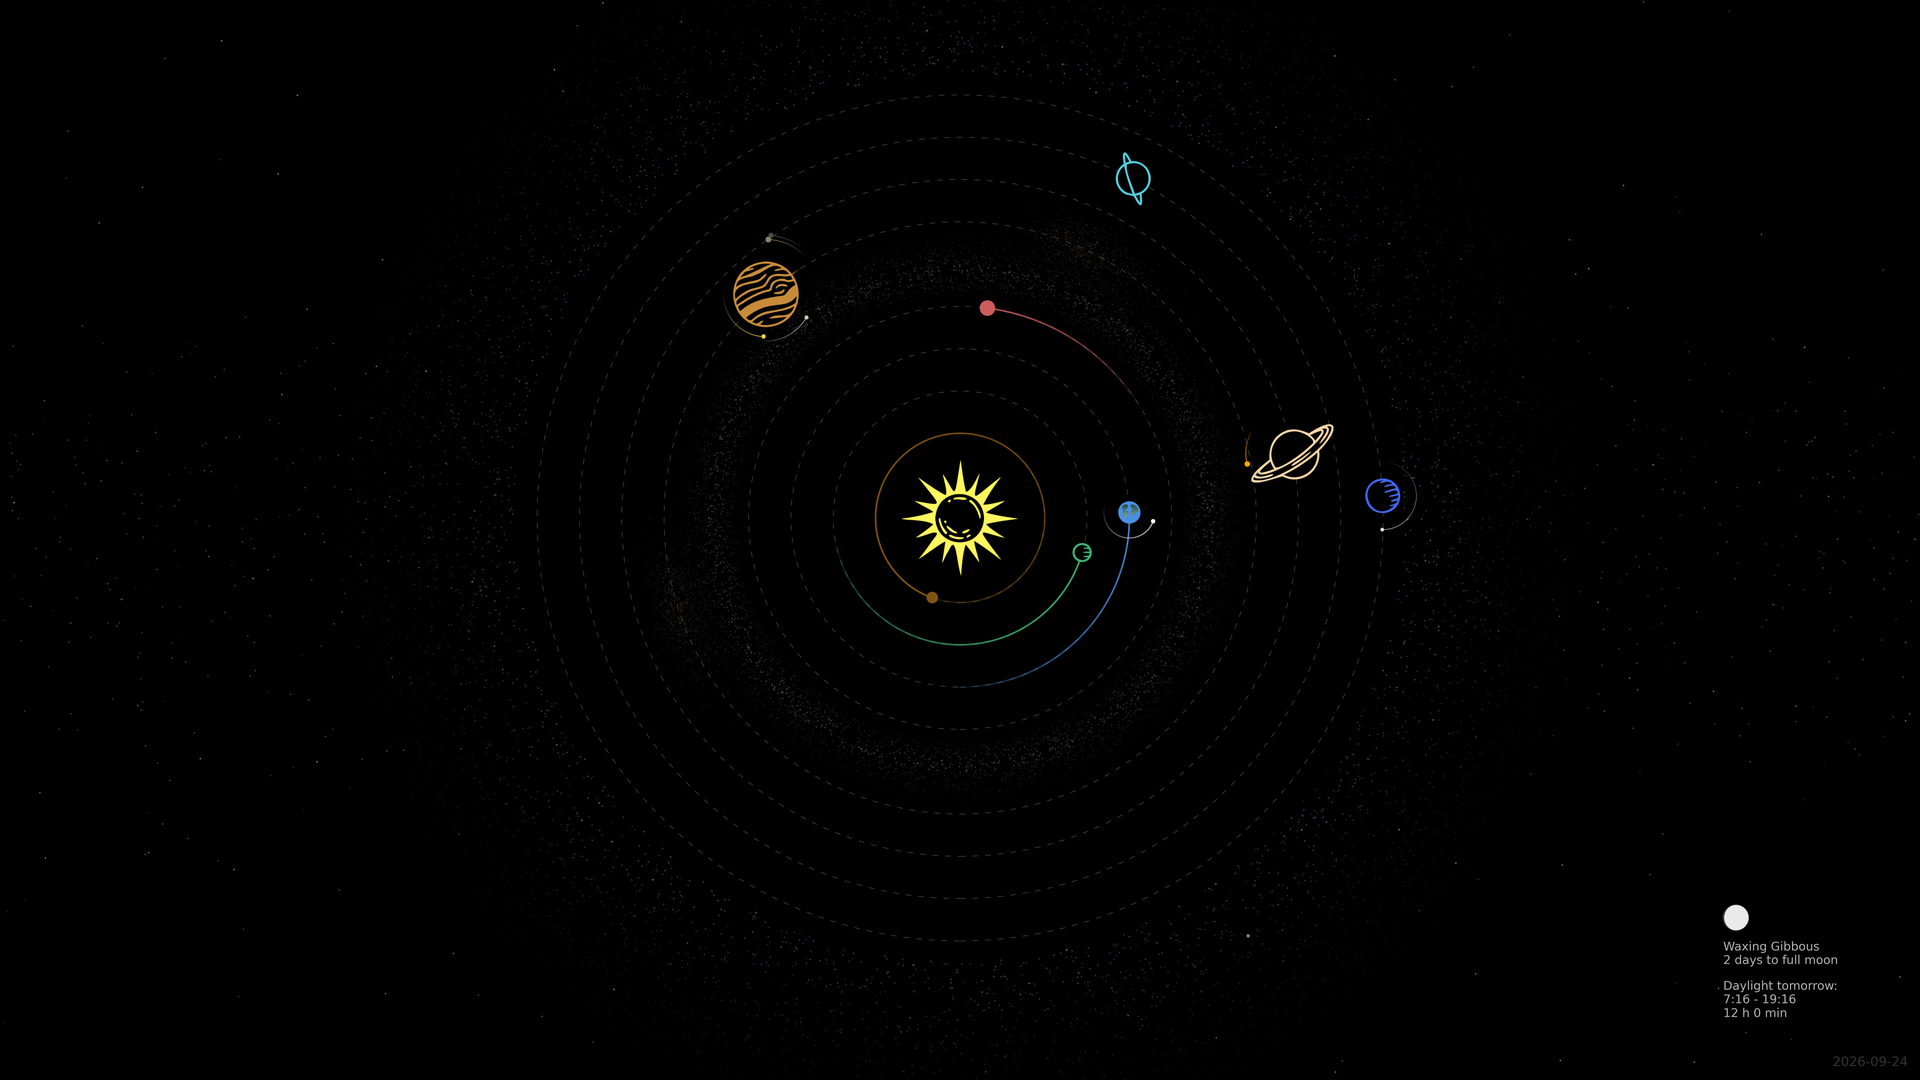
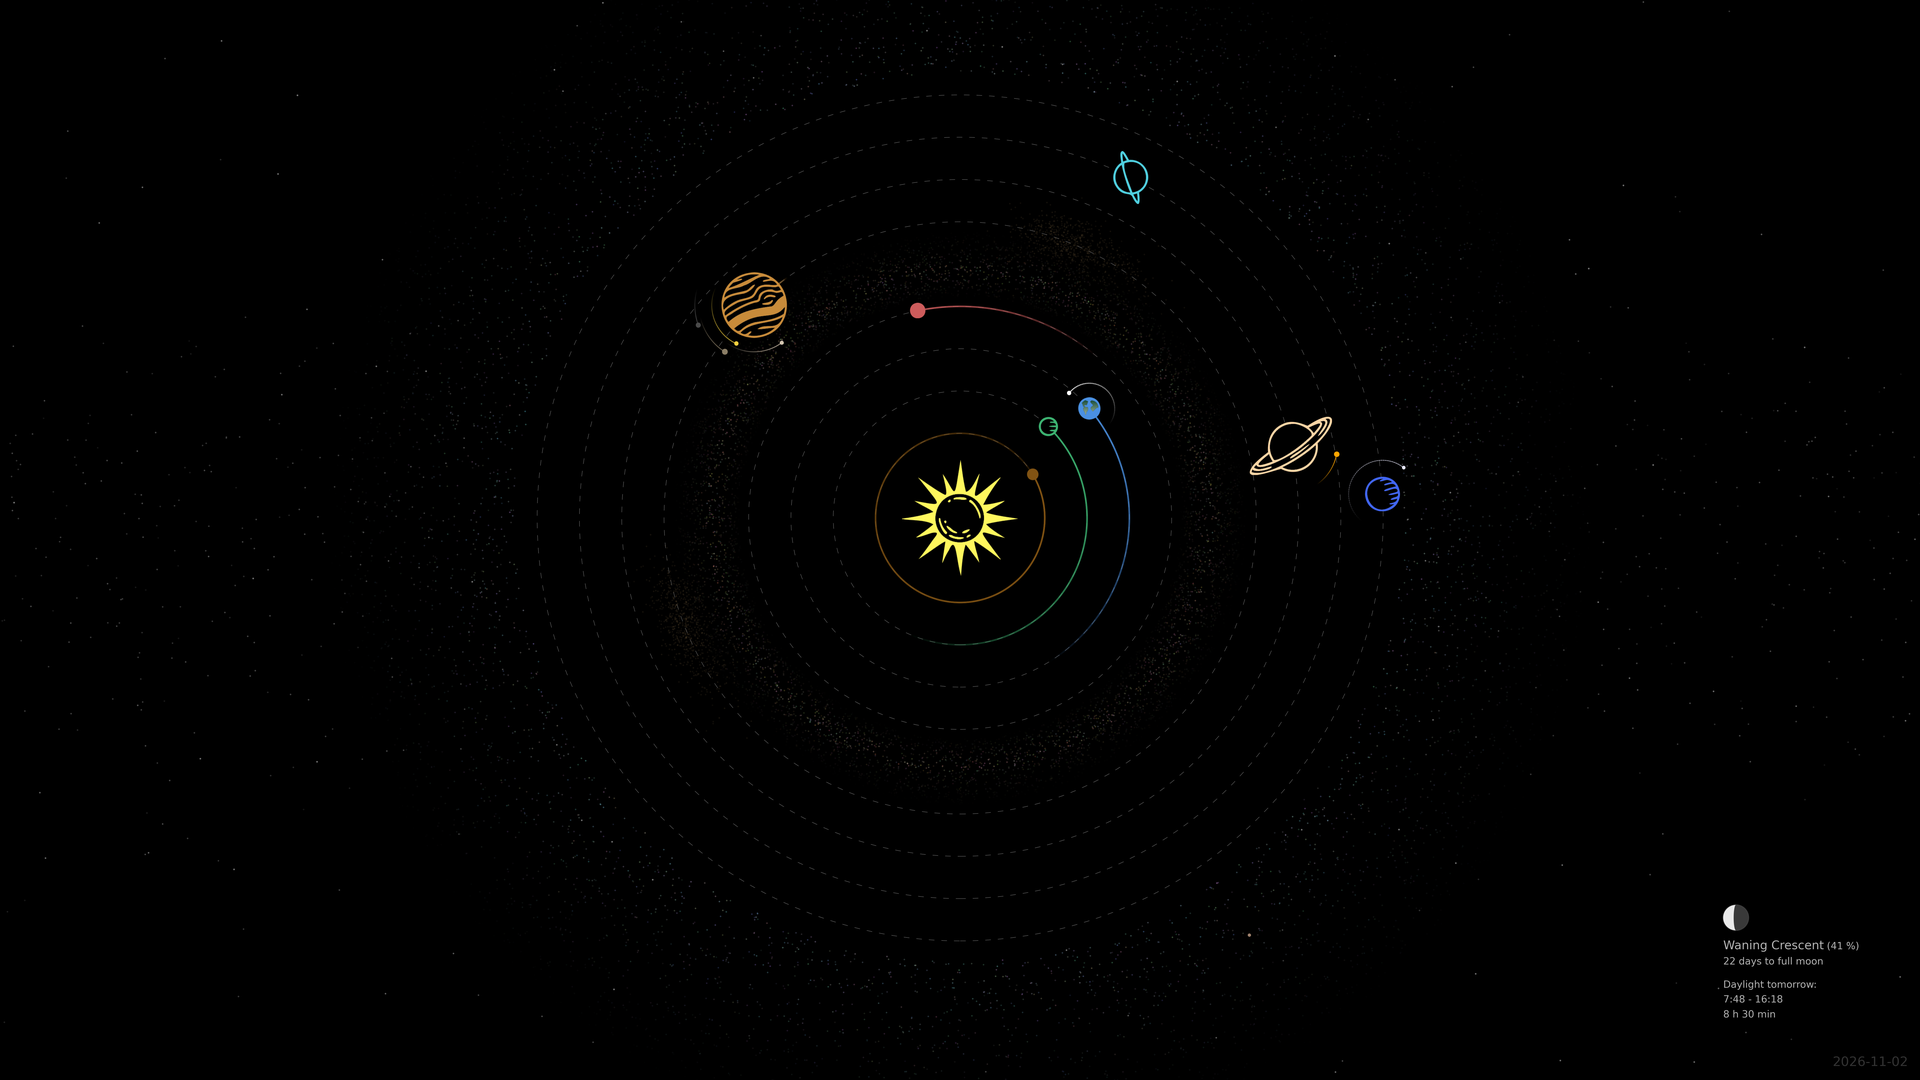
Add resolution and geolocation options for wallpaper generation

diff --git a/solarmap.py b/solarmap.py
@@ -1,5 +1,5 @@
 from astronomy import Time, Body, EclipticLongitude, GeoVector, Observer, SearchRiseSet, Direction, Illumination, SearchMoonPhase, JupiterMoons
-from matplotlib.offsetbox import OffsetImage, AnnotationBbox
+from matplotlib.offsetbox import OffsetImage, AnnotationBbox, HPacker, TextArea
 from matplotlib.colors import hex2color
 from functools import lru_cache
 from zoneinfo import ZoneInfo
@@ -13,12 +13,52 @@ import numpy as np
 import datetime
 import argparse
 
+def parse_resolution(value):
+    try:
+        width, height = map(int, value.lower().split("x"))
+    except ValueError:
+        raise argparse.ArgumentTypeError(
+            "resolution must be in WIDTHxHEIGHT format, e.g. 1920x1080"
+        )
+    if width <= 0 or height <= 0:
+        raise argparse.ArgumentTypeError("width and height must be positive integers")
+    return width, height
+
+def parse_geolocation(value):
+    try:
+        latitude, longitude = map(float, value.split(","))
+    except ValueError:
+        raise argparse.ArgumentTypeError(
+            "geolocation must be in LATITUDE,LONGITUDE format, e.g. 60.17101,24.94148"
+        )
+    if not math.isfinite(latitude) or not math.isfinite(longitude):
+        raise argparse.ArgumentTypeError("latitude and longitude must be finite numbers")
+    if not -90 <= latitude <= 90 or not -180 <= longitude <= 180:
+        raise argparse.ArgumentTypeError(
+            "latitude must be between -90 and 90, and longitude between -180 and 180"
+        )
+    return latitude, longitude
+
 parser = argparse.ArgumentParser()
 parser.add_argument(
     "--language",
     choices=["en", "fi"],
     default="en",
     help="Language for the generated map"
+)
+parser.add_argument(
+    "--resolution",
+    type=parse_resolution,
+    default=(1920, 1080),
+    metavar="WIDTHxHEIGHT",
+    help="Wallpaper resolution in pixels (default: 1920x1080)"
+)
+parser.add_argument(
+    "--geolocation",
+    type=parse_geolocation,
+    default=(60.17101, 24.94148),
+    metavar="LATITUDE,LONGITUDE",
+    help="Location coordinates (default: 60.17101,24.94148)"
 )
 args = parser.parse_args()
 
@@ -29,9 +69,7 @@ args = parser.parse_args()
 # ═══════════════════════════════════════════════════════════════════════════
 
 #TODO: Test different resolutions and aspect ratios
-#TODO: Move supersample multiplier to configuration
 #TODO: Move magic numbers to configuration
-#TODO: Automatic wallpaper generation in Github Actions?
 #TODO: Comets (Halley, Hale-Bopp)
 #TODO: Realistic elliptical orbits (enables rest of the dwarf planets & astrology)
 ##      Astrology: Sky division to constellations, meanings of planets in different constellations
@@ -48,14 +86,16 @@ args = parser.parse_args()
 show_info_text = True  # Set to False to hide info text
 
 # Geolocation coordinates for weather forecast, moon phase and rise/set times
-latitude = 60.06977
-longitude = 23.66283
+latitude, longitude = args.geolocation
 
 # Custom time input
 custom_date = "Now"  # Options: None, "Now", "YYYY-MM-DD", or "YYYY-MM-DD HH:MM"
 
 # Orbital trails toggle
 trail_days = 100  # How long the trails are in days
+
+# Supersampling multiplier for final image antialiasing
+supersample_multiplier = 4
 
 # Planet colors
 planet_colors = {
@@ -208,8 +248,7 @@ def longitude_to_theta(longitude):
 # ═══════════════════════════════════════════════════════════════════════════
 
 # Set wallpaper resolution
-width_px = 1920
-height_px = 1080
+width_px, height_px = args.resolution
 
 reference_height = 1440
 reference_dpi = 100 # Reference DPI for scaling, change for bigger/smaller planets and stars
@@ -858,7 +897,8 @@ if show_info_text:
 info_boxes = []
 
 # 1. Moon phase
-moon_text = f"\n\n\n{phase_name}\n{days_to_full:.0f} {T['days_to_full']}"
+moon_phase_text = f"{phase_name} ({illumination * 100:.0f} %)"
+moon_text = f"\n\n\n{moon_phase_text}\n{days_to_full:.0f} {T['days_to_full']}"
 info_boxes.append(moon_text)
 
 # 2. Daylight
@@ -891,10 +931,40 @@ for i, box_text in enumerate(reversed(info_boxes)):
     text_x_pos = box_left + box_padding
     text_y_pos = box_bottom + box_padding
     
-    ax.text(text_x_pos, text_y_pos, box_text,
-            color='white', fontsize=11,
-            ha='left', va='bottom',
-            alpha=0.7, zorder=11)
+    text_lines = box_text.splitlines()
+    for line_idx, line in enumerate(text_lines):
+        line_y = text_y_pos + (len(text_lines) - line_idx - 1) * line_height
+
+        if i == len(info_boxes) - 1 and line == moon_phase_text:
+            phase_label = TextArea(
+                phase_name,
+                textprops={'color': 'white', 'fontsize': 11, 'alpha': 0.7},
+            )
+            illumination_label = TextArea(
+                f" ({illumination * 100:.0f} %)",
+                textprops={'color': 'white', 'fontsize': 9, 'alpha': 0.7},
+            )
+            phase_line = HPacker(
+                children=[phase_label, illumination_label],
+                align='baseline',
+                pad=0,
+                sep=0,
+            )
+            ax.add_artist(AnnotationBbox(
+                phase_line,
+                (text_x_pos, line_y),
+                xycoords='data',
+                box_alignment=(0, 0),
+                frameon=False,
+                pad=0,
+                zorder=11,
+            ))
+            continue
+
+        ax.text(text_x_pos, line_y, line,
+                color='white', fontsize=9,
+                ha='left', va='bottom',
+                alpha=0.7, zorder=11)
     
     # Special handling for first box (moon phase) - add moon indicator
     if i == len(info_boxes) - 1:
@@ -975,9 +1045,8 @@ ax.text(date_x, date_y, f"{date_str}",
 plt.tight_layout()
 
 # Supersample entire image for antialiasing with overscan
-supersample_final = 4  # Render at 4x resolution
 overscan = 1.04  # 4 % extra on each side
-temp_dpi = int(dpi * supersample_final * overscan)
+temp_dpi = int(dpi * supersample_multiplier * overscan)
 
 # Save to memory buffer instead of file
 buffer = io.BytesIO()
@@ -989,8 +1058,8 @@ img = Image.open(buffer)
 w, h = img.size
 
 # Calculate crop area (remove overscan)
-crop_w = int(width_px * supersample_final)
-crop_h = int(height_px * supersample_final)
+crop_w = int(width_px * supersample_multiplier)
+crop_h = int(height_px * supersample_multiplier)
 left = (w - crop_w) // 2
 top = (h - crop_h) // 2
 cropped = img.crop((left, top, left + crop_w, top + crop_h))

diff --git a/README.md b/README.md
@@ -32,14 +32,27 @@ pip install -r requirements.txt
 python solarmap.py
 ```
 
-The script generates `solarmap.png` in the current directory.
+The script generates `solarmap.png` in the current directory. By default, the
+wallpaper resolution is `1920x1080` and the location is Helsinki Central Railway
+Station (`60.17101,24.94148`).
+
+Use `--resolution WIDTHxHEIGHT` to choose an output resolution and
+`--geolocation LATITUDE,LONGITUDE` to set the location used for moon and
+sunrise/sunset data:
+
+```bash
+python solarmap.py --resolution 2560x1440 --geolocation 60.17101,24.94148
+```
+
+Both arguments are optional.
 
 ## Configuration
 
 Edit the configuration section in `solarmap.py`:
 
-- `width_px`, `height_px` - Output resolution
-- `latitude`, `longitude` - Your location for weather/sunrise times
+- `width_px`, `height_px` - Output resolution (overridden by `--resolution`)
+- `latitude`, `longitude` - Your location (overridden by `--geolocation`)
+- `supersample_multiplier` - Antialiasing render scale
 - `custom_date` - Set a specific date or use "Now"
 - `planet_colors` - Customize planet colors
 
